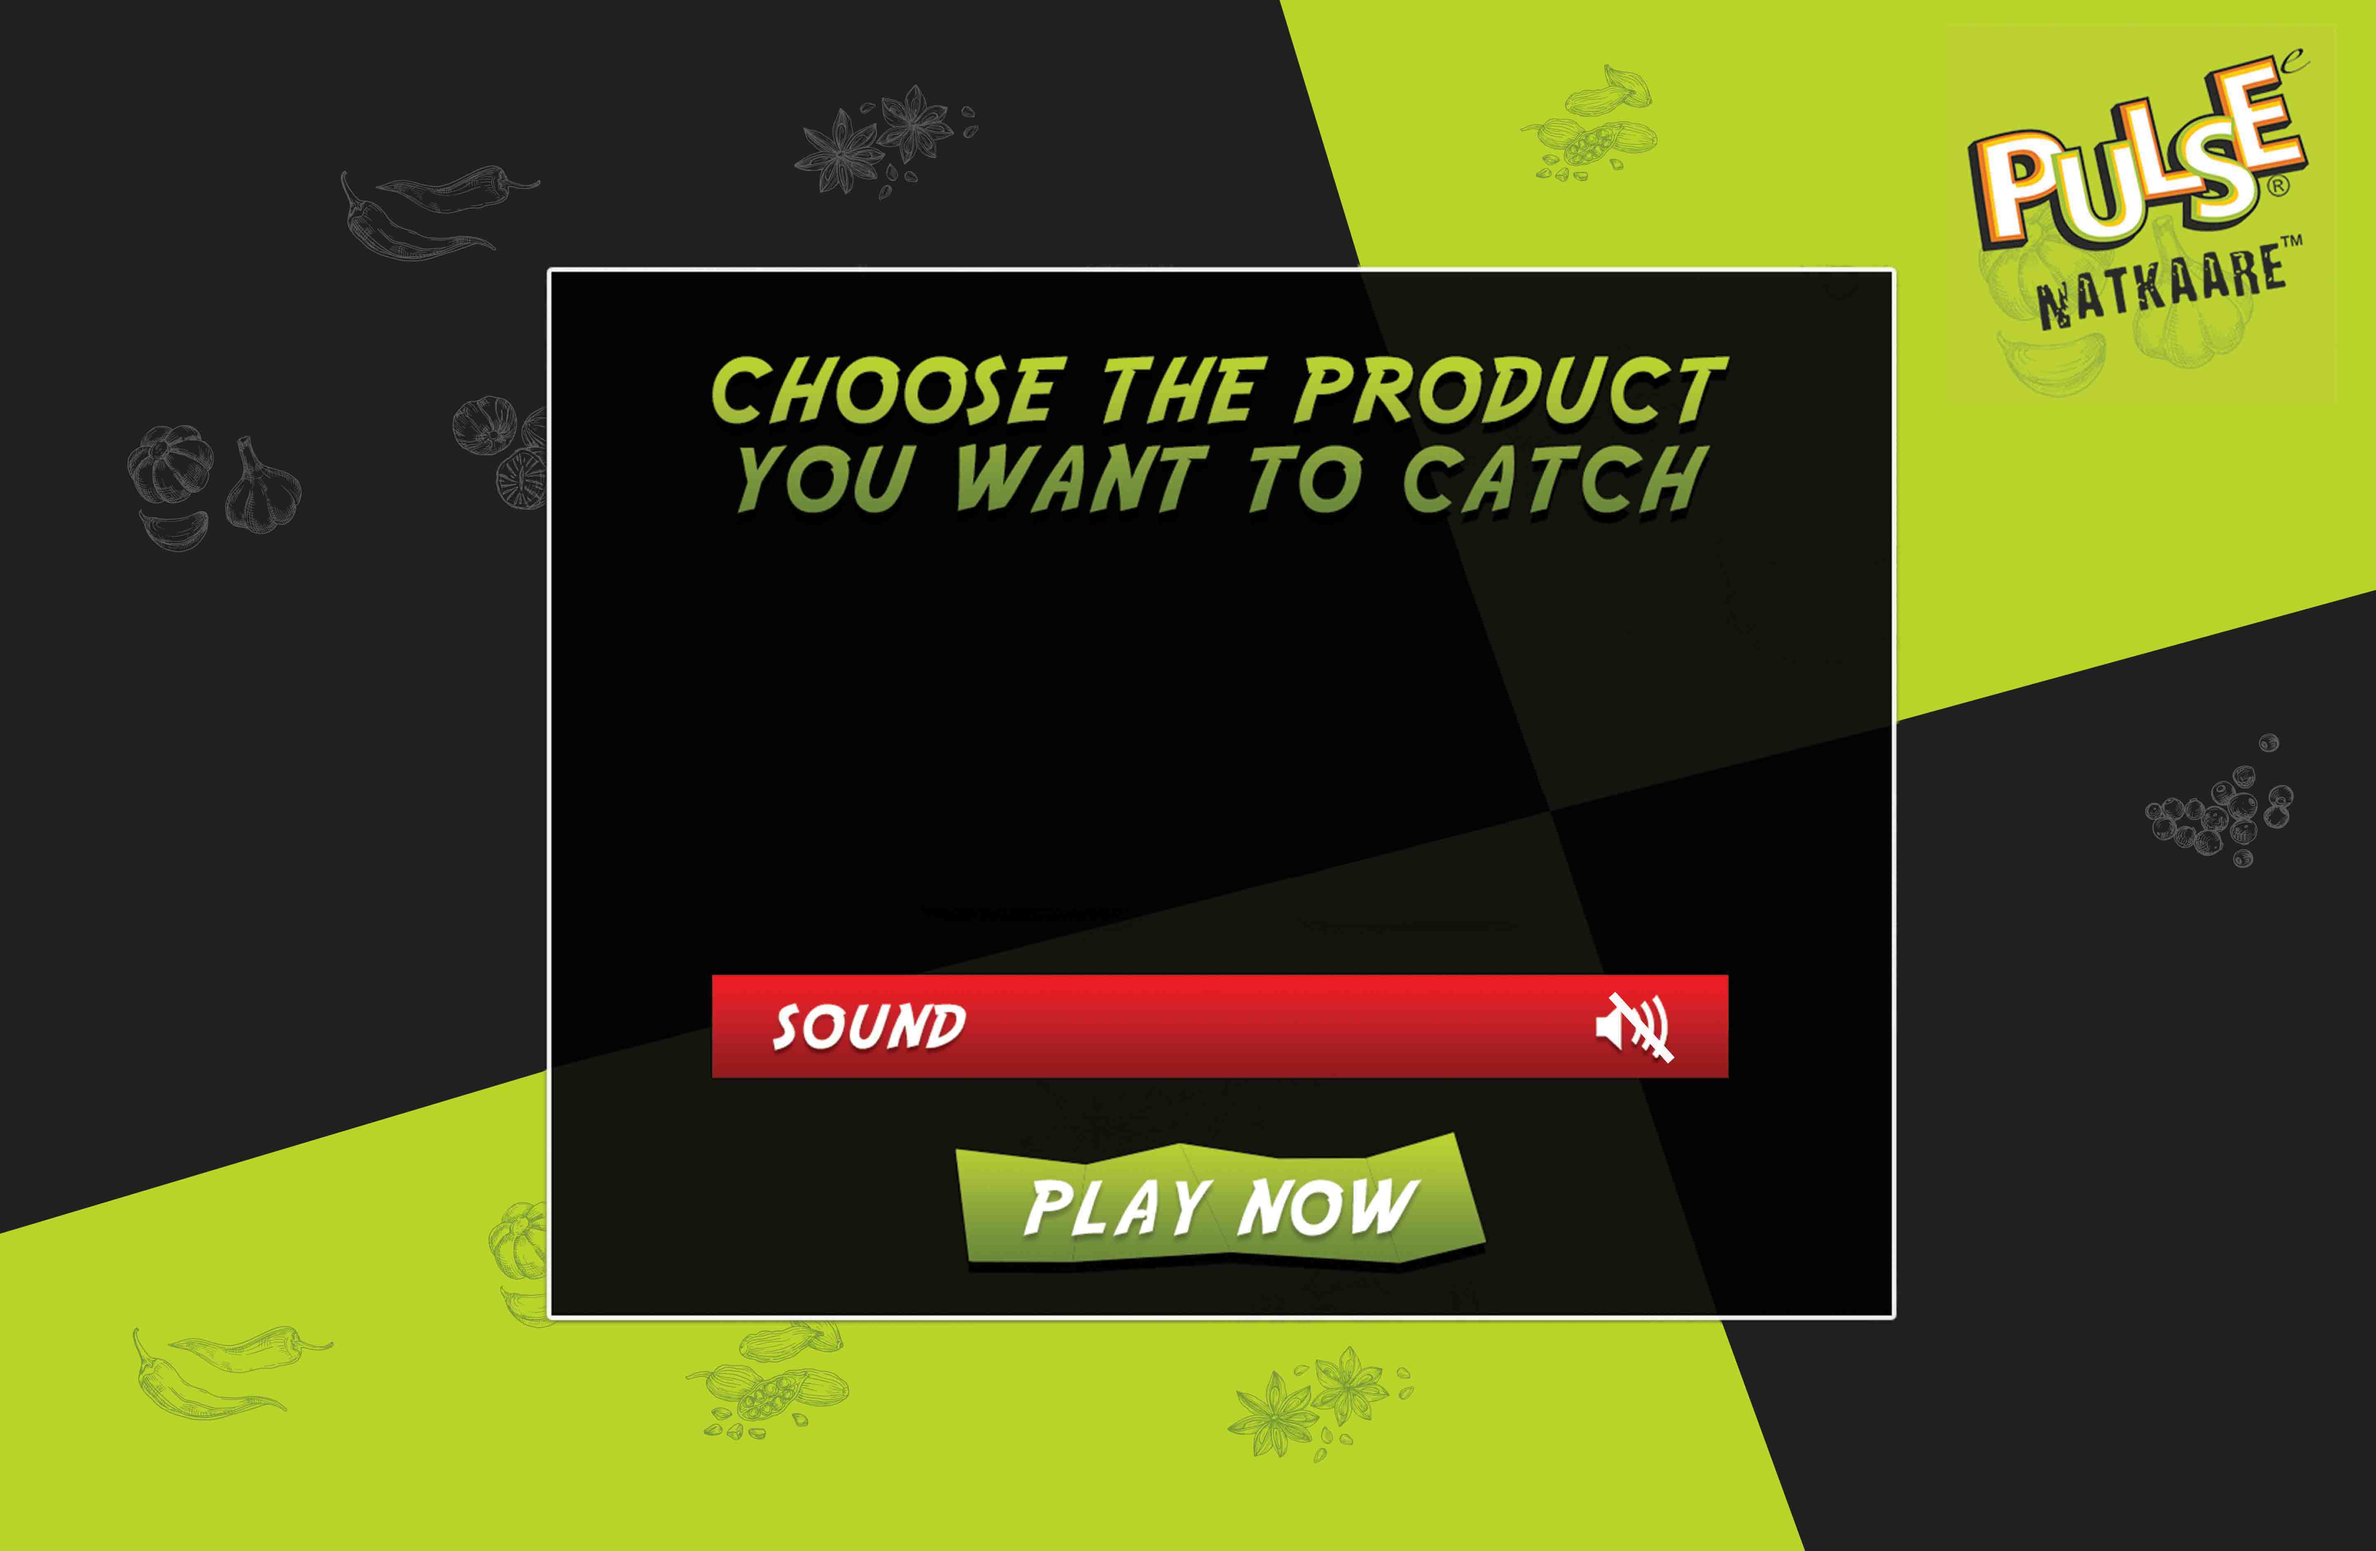
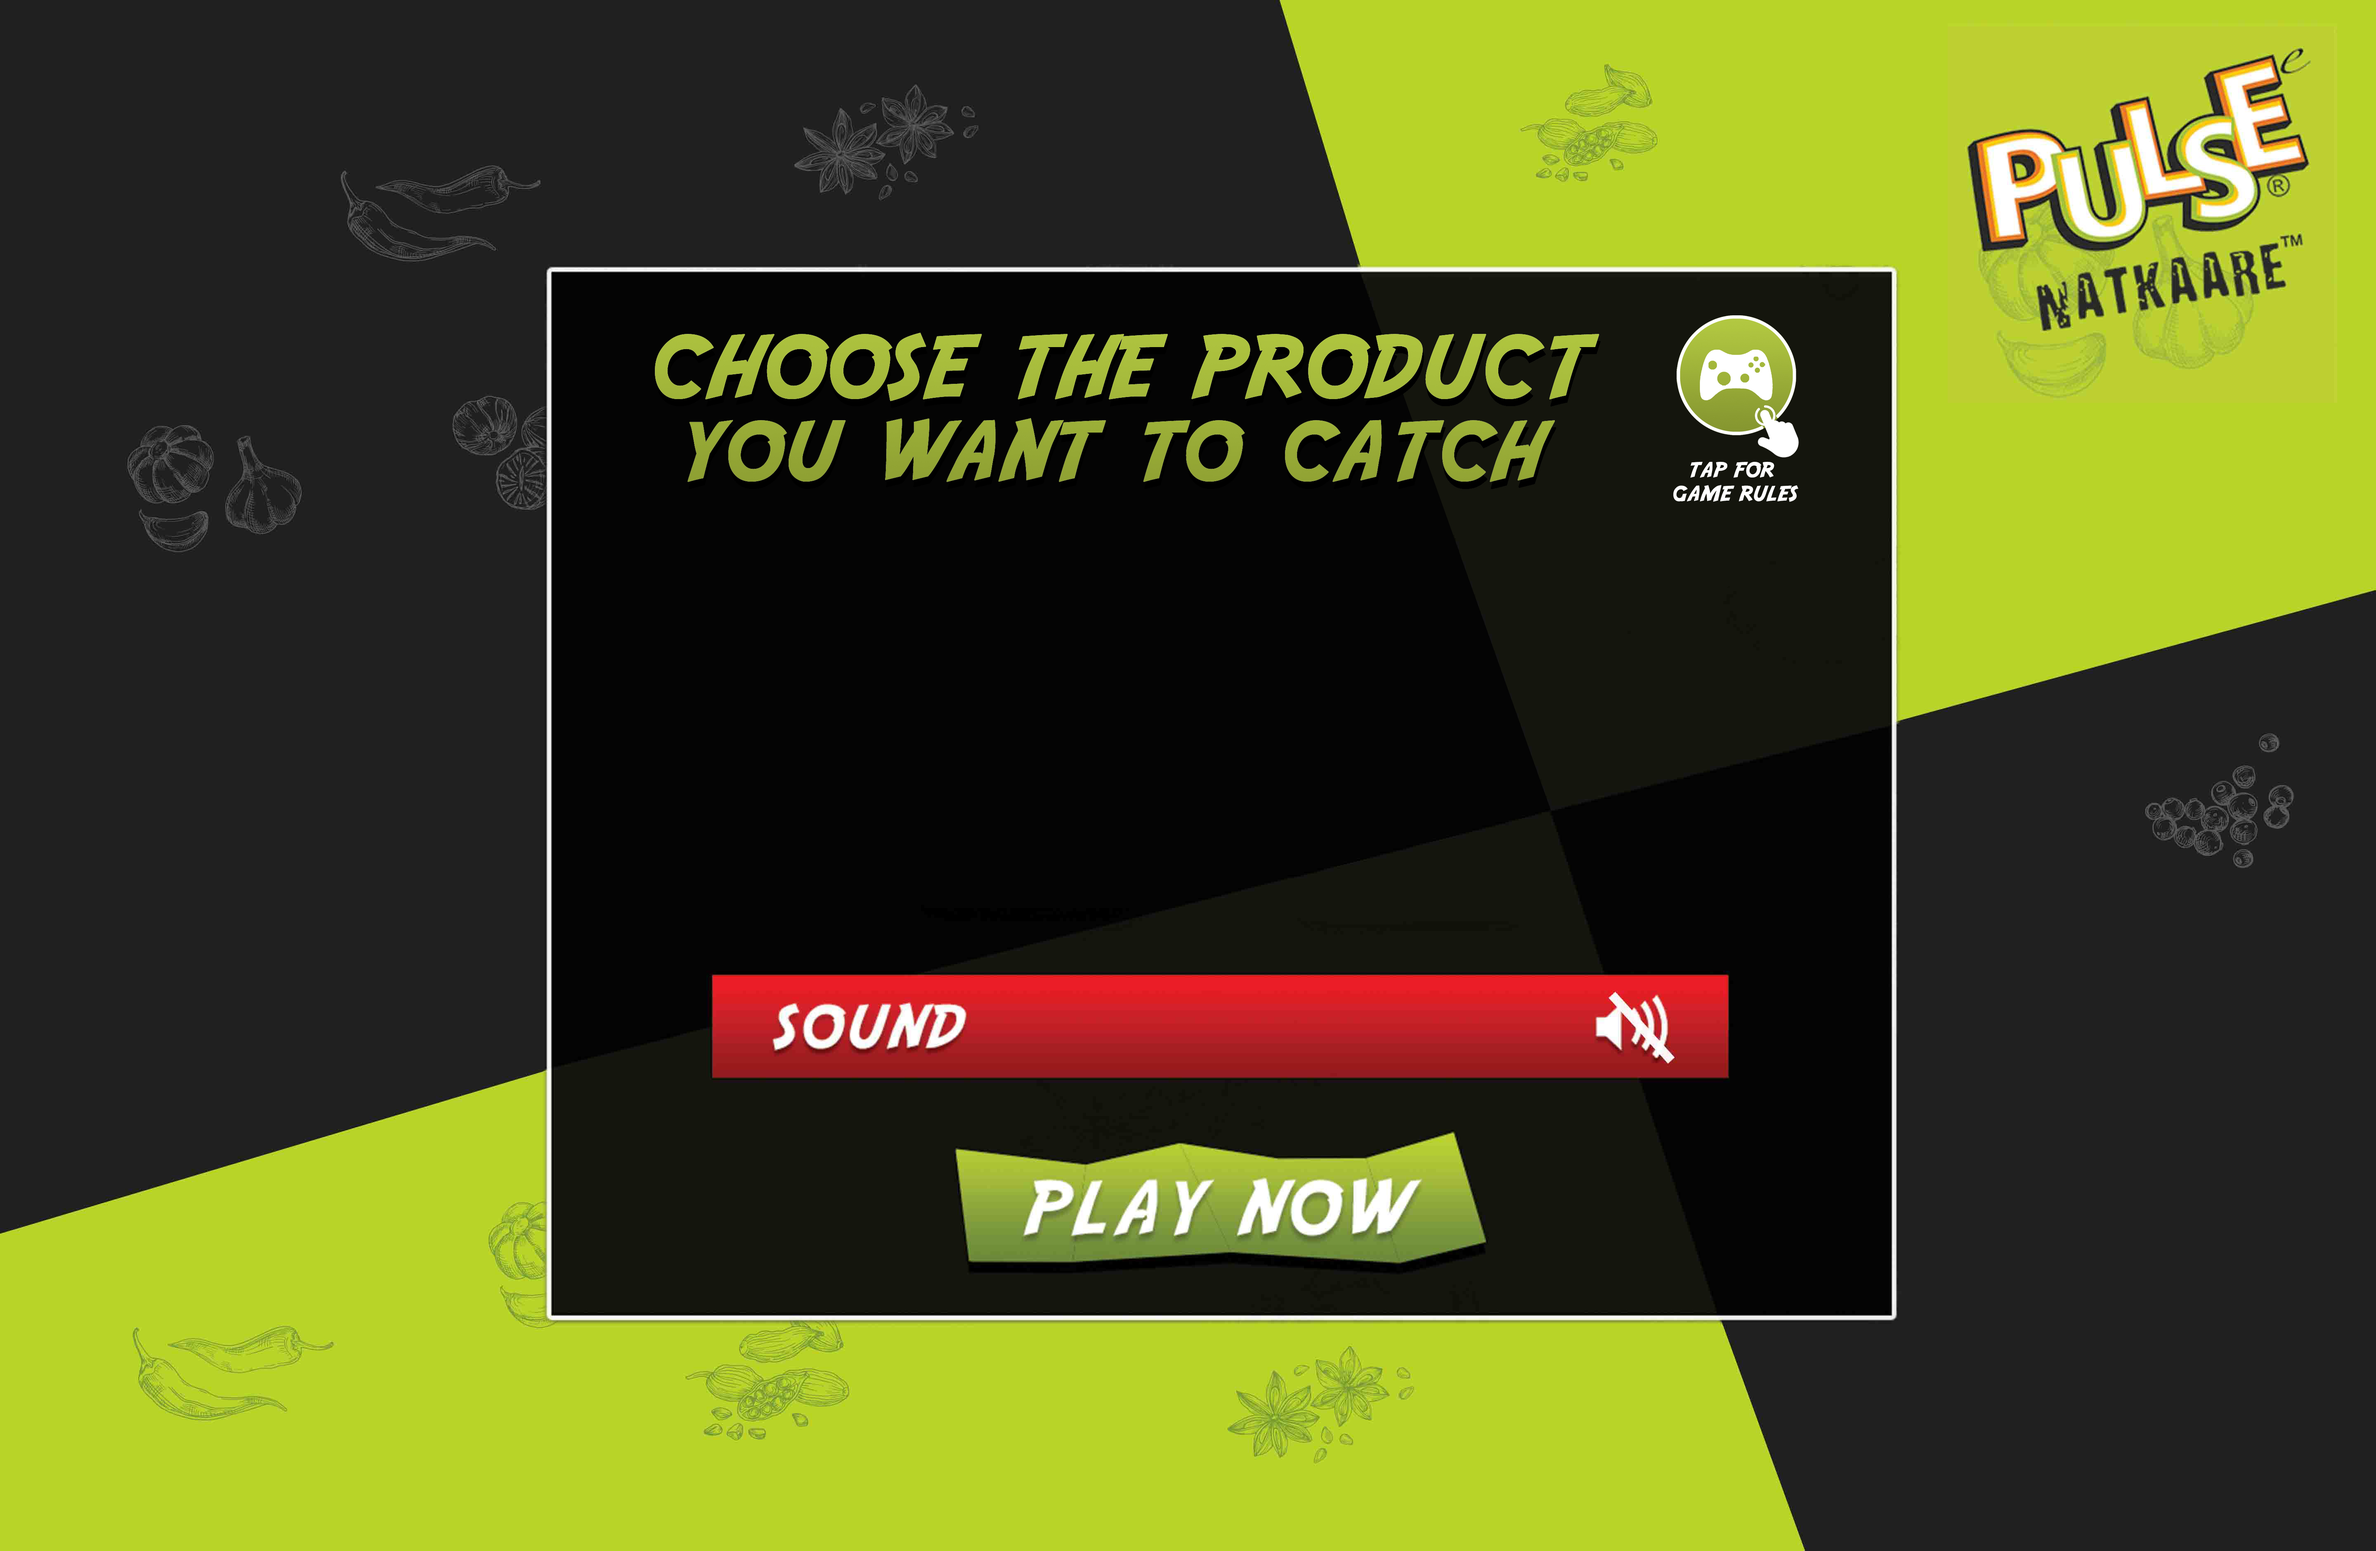
game changes

Changed region(s): [[0.2798, 0.1868, 0.7772, 0.3425]]

diff --git a/index.html b/index.html
@@ -27,10 +27,37 @@
     <div id="yellowPacket" class="selectionYellow"></div>
     <div id="greenPacket" class="selectionGreen"></div>
     <div class="container">
+        <div type="button" style="
+            height: 35%;
+            width: 100%;
+            position: fixed;
+            top: 0;
+            background-color: transparent;"
+            onclick="showGameRules()">
+        </div>
         <div class="button1" type="button" onclick="enableGreenPacket()"></div>
         <div class="button2" type="button" onclick="enableYellowPacket()"></div>
         <div class="button3" type="button" onclick="updateSound()"></div>
-        <div class="playButton" type="button"  onclick="displayIframe()"></div>
+        <div class="playButton" type="button"  onclick="displayIframe()"></div> 
+    </div>
+    <div id="gameRules" class="modal show-modal">
+      <div class="modal-content">
+          <h1 style="font-size: 0.85em;">
+            <p style="text-align: center;"><span style="color: #000080;"><strong><u>Game Rules</u></strong></span></p>
+            <p><span style="color: #000080;">&nbsp;1. Select from Pulse Natkare Peanuts (Green) or Pulse Natkare Chana Jor (Yellow).</span></p>
+            <p><span style="color: #000080;">&nbsp;2. Click on Play button to start playing game.</span></p>
+            <p><span style="color: #000080;">&nbsp;3. Gain score by catching as many Pulse Natkare you can in 30 seconds.</span></p>
+            <p><span style="color: #000080;">&nbsp;4. Catch the selected Pulse Natkare to increase score.</span></p>
+            <p><span style="color: #000080;">&nbsp;5. Catching different product will cause game over.</span></p>
+            <p><span style="color: #000080;">&nbsp;6. As time decreases speed of falling will increase, be ready for quick action.</span></p>
+            <p><span style="color: #000080;">&nbsp;7. Catching falling bombs will cause game over.</span></p>
+            <p><span style="color: #000080;">&nbsp;8. Share your score on Instagram, Facebook, WhatsApp and challenge your friends.</span></p>
+          </h1>
+    </div>
+    <span class="close-button" onclick="hideGameRules()" style="
+      margin-top: 6%;
+      margin-right: 7%;
+    ">×</span>
     </div>
 </div>
 <div id="bg_start" onclick="onFullScreenAndStart()" class="bg_start"></div>
@@ -64,6 +91,8 @@
     margin-right: 7%;
 ">×</span>
 </div>
+
+
   <form id="regForm">
     <p class="small">
     <input id="regName" type="text" class="form-style"   placeholder="NAME" maxlength = "7" onclick="updatewidth()" onblur="xblur()" 
@@ -354,18 +383,18 @@ form{
 }
 
 .button1{
-  height: 62%;
+  height: 33%;
     width: 49%;
     position: relative;
-    top: -14%;
+    top: 20%;
     background-color: transparent;
 }
 
 .button2{
-  height: 62%;
+  height: 33%;
     width: 49%;
     position: relative;
-    top: -76%;
+    top: -13%;
     left: 50%;
     background-color: transparent;
 }
@@ -374,7 +403,7 @@ form{
   height: 10%;
     width: 100%;
     position: relative;
-    top: -70%;
+    top: -12%;
     background-color: transparent;
 }
 
@@ -383,7 +412,7 @@ form{
   height: 18%;
     width: 100%;
     position: relative;
-    top: -66%;
+    top: -10%;
     background-color: transparent;
 }
 
@@ -492,6 +521,20 @@ function showModel(){
 
 function hideModel(){
   document.getElementById("privacyPolicy").style.display = "none";
+
+}
+
+function showGameRules(){
+  console.log('show rules');
+  
+  document.getElementById("gameRules").style.display = "block";
+  document.getElementById("gameRules").style.zIndex = "100";
+
+}
+
+function hideGameRules(){
+  console.log('hide rules');
+  document.getElementById("gameRules").style.display = "none";
 }
 
 hideModel();

diff --git a/script.js b/script.js
@@ -22,7 +22,7 @@ var bowlImageg1,bowlImageg2,bowlImageg3;
 var bowlImagey1,bowlImagey2,bowlImagey3;
 
 function preload() {
-  backgroundImage = loadImage("bg_1.jpg");
+  backgroundImage = loadImage("GameBG.jpg");
 
   bowlImage = loadImage("robber.png");
 
